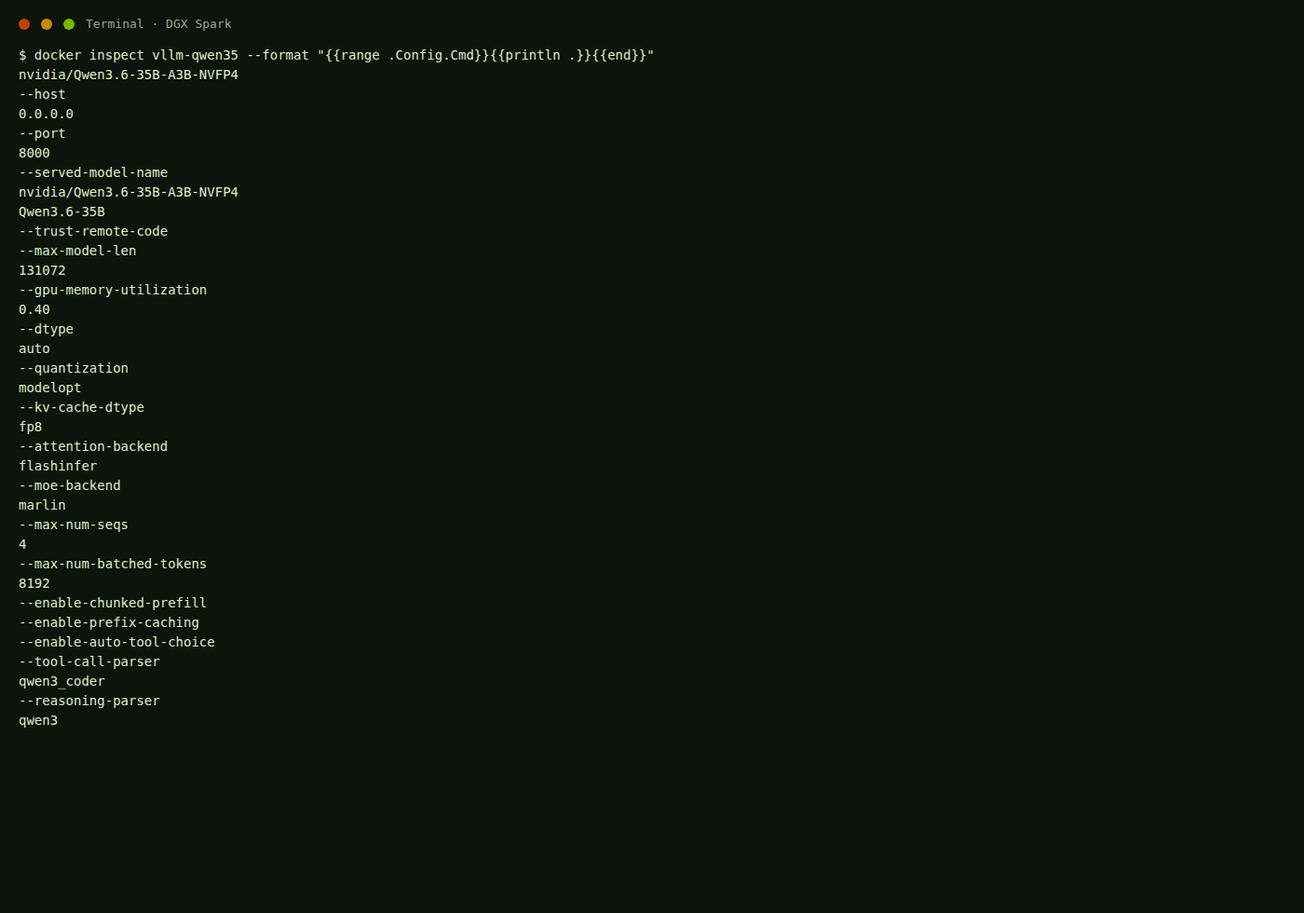
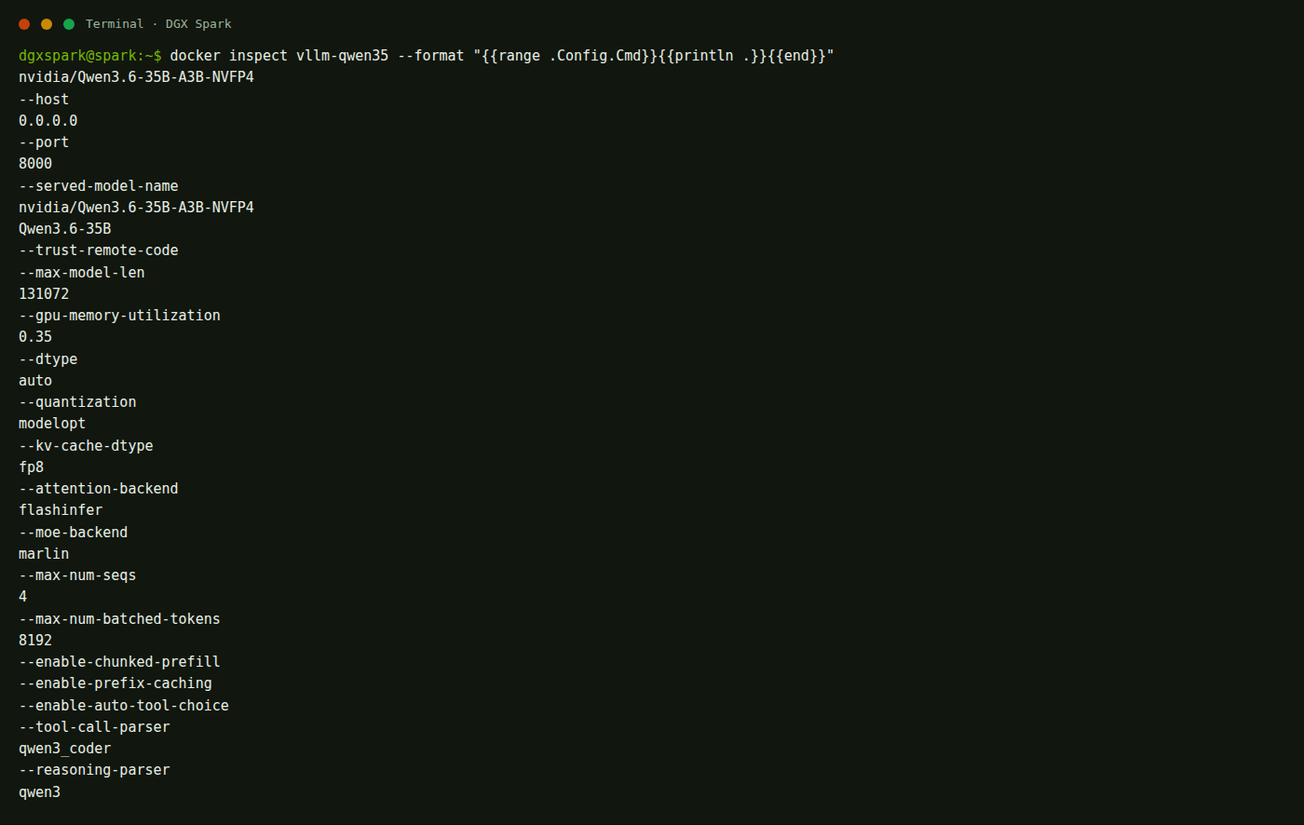
Lower studio RAM recipes: Qwen35 35%, Qwen27 50%, Nemotron 60% at 500k
Match the live docker-compose reservation cuts and recapture
inspect/free screenshots from Qwen 35B after the 0.35 restart.

Changed region(s): [[0.0, 0.0, 0.645, 0.9752]]

diff --git a/models.html b/models.html
@@ -52,21 +52,21 @@
                 <tr>
                   <td>Nemotron-3.5-Lightning</td>
                   <td>nvidia/NVIDIA-Nemotron-3.5-Lightning-30B-A3B-NVFP4</td>
-                  <td>21 GB + DSpark 1.3 GB</td>
-                  <td>แชท เขียนโค้ด งานเอเจนต์ บริบทยาว</td>
+                  <td>21 GB + DSpark 1.3 GB · จอง 60% · บริบท 500k</td>
+                  <td>แชท เขียนโค้ด งานเอเจนต์ บริบทยาวถึง 500k</td>
                   <td><code>start-nemotron</code></td>
                 </tr>
                 <tr>
                   <td>Qwen3.6-27B</td>
                   <td>nvidia/Qwen3.6-27B-NVFP4</td>
-                  <td>21 GB</td>
+                  <td>21 GB · จอง 50%</td>
                   <td>แชททั่วไป สูตรนี้เปิดแบบข้อความอย่างเดียว</td>
                   <td><code>start-qwen27</code></td>
                 </tr>
                 <tr>
                   <td>nvidia/Qwen3.6-35B-A3B-NVFP4 และ Qwen3.6-35B</td>
                   <td>nvidia/Qwen3.6-35B-A3B-NVFP4</td>
-                  <td>22 GB ไฟล์ · จอง RAM ประมาณ 40%</td>
+                  <td>22 GB ไฟล์ · จอง RAM 35%</td>
                   <td>งานหนักขึ้น แบบ MoE ใช้กับ Hermes ได้</td>
                   <td><code>start-qwen35</code></td>
                 </tr>
@@ -87,9 +87,9 @@
               <thead><tr><th>คำสั่ง</th><th>ผลลัพธ์</th><th>ใช้เวลานานไหม</th></tr></thead>
               <tbody>
                 <tr><td><code>llm-status</code></td><td>บอกว่าเว็บกับโมเดลเปิดอยู่หรือไม่</td><td>ทันที</td></tr>
-                <tr><td><code>start-nemotron</code></td><td>ปิดโมเดลอื่น แล้วเปิด Nemotron</td><td>2–4 นาที</td></tr>
-                <tr><td><code>start-qwen27</code></td><td>ปิดโมเดลอื่น แล้วเปิด Qwen 27B</td><td>2–4 นาที</td></tr>
-                <tr><td><code>start-qwen35</code></td><td>ปิดโมเดลอื่น แล้วเปิด Qwen 35B ชื่อเต็มที่ Hermes ใช้ จอง RAM 40%</td><td>2–6 นาที</td></tr>
+                <tr><td><code>start-nemotron</code></td><td>ปิดโมเดลอื่น แล้วเปิด Nemotron จอง 60% บริบท 500k</td><td>2–4 นาที</td></tr>
+                <tr><td><code>start-qwen27</code></td><td>ปิดโมเดลอื่น แล้วเปิด Qwen 27B จอง 50%</td><td>2–4 นาที</td></tr>
+                <tr><td><code>start-qwen35</code></td><td>ปิดโมเดลอื่น แล้วเปิด Qwen 35B ชื่อเต็มที่ Hermes ใช้ จอง RAM 35%</td><td>2–6 นาที</td></tr>
                 <tr><td><code>stop-model</code></td><td>ปิดโมเดล คืน RAM ประมาณ 100 GB</td><td>ไม่กี่วินาที</td></tr>
                 <tr><td><code>start-webui</code></td><td>เปิดหน้าเว็บ :18473</td><td>ไม่กี่วินาที</td></tr>
                 <tr><td><code>stop-webui</code></td><td>ปิดหน้าเว็บ ประวัติแชทยังอยู่</td><td>ทันที</td></tr>
@@ -188,7 +188,7 @@
             <article class="viz-card">
               <span class="k">เรื่องที่ 3</span>
               <h3>จอง RAM</h3>
-              <p>สูตรเก่ากัน 82% สูตรใหม่กัน 40% ไฟล์โมเดลไม่ได้โต</p>
+              <p>สูตรเก่ากัน 82% สูตรปัจจุบันของ Qwen 35B กัน 35% ไฟล์โมเดลไม่ได้โต</p>
             </article>
           </div>
           <div class="callout warn">สิ่งที่ <em>ไม่ได้</em> พัง: ไฟล์โมเดลบนดิสก์ไม่หาย Hermes แดชบอร์ดไม่พัง Open WebUI ยังคุยได้ด้วยชื่อสั้น ปัญหาอยู่ที่ <strong>ชื่อที่เรียก</strong> กับ <strong>สูตรจอง RAM</strong></div>
@@ -368,8 +368,8 @@ Qwen3.6-35B</div>
           <p>ตรวจของจริงจากคอนเทนเนอร์ที่กำลังรัน</p>
           <div class="prewrap"><button class="copy" data-copy>คัดลอก</button><pre>docker inspect vllm-qwen35 --format '{{range .Config.Cmd}}{{println .}}{{end}}'</pre></div>
           <figure class="shot">
-            <img src="assets/shots/term-inspect-cmd.png" alt="docker inspect แสดง served-model-name สองชื่อและ utilization 0.40">
-            <figcaption>ผลจริง: ต้องเห็น <code>--served-model-name</code> ตามด้วยชื่อเต็มแล้วชื่อสั้น และ <code>--gpu-memory-utilization</code> เป็น <code>0.40</code></figcaption>
+            <img src="assets/shots/term-inspect-cmd.png" alt="docker inspect แสดง served-model-name สองชื่อและ utilization">
+            <figcaption>ผลจริง: ต้องเห็น <code>--served-model-name</code> ตามด้วยชื่อเต็มแล้วชื่อสั้น และ <code>--gpu-memory-utilization</code> เป็น <code>0.35</code></figcaption>
           </figure>
 
           <h3>ชั้น 3 Hermes ยิงชื่อเต็มเท่านั้น</h3>
@@ -424,8 +424,8 @@ Qwen3.6-35B</div>
             <div class="legend">available เหลือไม่กี่ GB เครื่องแน่น ทั้งที่ไฟล์โมเดลยัง 22 GB</div>
           </div>
           <div class="bar">
-            <div class="label"><span>สูตรตอนนี้ 0.40</span><span>กันไว้ ~48 / 121 GiB</span></div>
-            <div class="track"><div class="fill" style="width:40%"></div></div>
+            <div class="label"><span>สูตรตอนนี้ 0.35</span><span>กันไว้ ~42 / 121 GiB</span></div>
+            <div class="track"><div class="fill" style="width:35%"></div></div>
             <div class="legend">เหลือที่ให้เบราว์เซอร์ Open WebUI Hermes และระบบ</div>
           </div>
 
@@ -436,14 +436,14 @@ Qwen3.6-35B</div>
           <p>ค่า <code>--gpu-memory-utilization</code> บอก vLLM ว่าให้กันสัดส่วนเท่าไรของหน่วยความจำที่มองเห็น ไว้ให้น้ำหนักโมเดลบวก KV cache</p>
           <div class="eq">ของเครื่องนี้ประมาณ 121 GiB
 สูตรเก่า 0.82 × 121 ≈ 99 GiB ถูกกันไว้ตั้งแต่ยังไม่ได้คุย
-สูตร Hermes / สูตรใหม่ 0.40 × 121 ≈ 48 GiB</div>
+สูตร Qwen 35B ตอนนี้ 0.35 × 121 ≈ 42 GiB</div>
           <div class="table-wrap">
             <table>
               <thead><tr><th>สูตร</th><th>utilization</th><th>กันไว้ประมาณ</th><th>ผลที่ตาเห็น</th></tr></thead>
               <tbody>
                 <tr><td><code>start-qwen35</code> แบบเก่า</td><td>0.82</td><td>~99–100 GiB จาก 121</td><td>available เหลือไม่กี่ GB เครื่องแน่น</td></tr>
-                <tr><td><code>qwen35-start</code></td><td>0.40</td><td>~48 GiB</td><td>เหลือ RAM ใช้เบราว์เซอร์และโปรแกรมอื่น</td></tr>
-                <tr><td><code>start-qwen35</code> ตอนนี้</td><td>0.40</td><td>~48 GiB</td><td>เท่าสูตรที่ Hermes ใช้ได้</td></tr>
+                <tr><td><code>qwen35-start</code></td><td>0.40</td><td>~48 GiB</td><td>สูตรเก่าของ Hermes ตอนจัดชื่อ</td></tr>
+                <tr><td><code>start-qwen35</code> ตอนนี้</td><td>0.35</td><td>~42 GiB</td><td>ลดจาก 0.40 เพราะบริบทในสูตรนี้ 128k ไม่ใช่ 256k</td></tr>
               </tbody>
             </table>
           </div>
@@ -460,16 +460,16 @@ Qwen3.6-35B</div>
               <p><code>free</code> คือที่ว่างเปล่าจริง ๆ ส่วนที่ระบบเก็บแคชไฟล์จะโชว์ใน <code>buff/cache</code> และยังคืนให้โปรแกรมได้ คอลัมน์ที่บอกว่า “ยังเปิดอย่างอื่นได้อีกไหม” คือ <code>available</code></p>
             </li>
             <li>
-              <div class="title">ตัวเลขปกติหลังเปิด Qwen 35B สูตร 40%</div>
-              <p>วันที่ 17 สิงหาคม 2026 เครื่องนี้ใช้ไป 61 GiB เหลือ available 59 GiB มีแคชอีกประมาณ 30 GiB</p>
+              <div class="title">ตัวเลขปกติหลังเปิด Qwen 35B สูตร 35%</div>
+              <p>สูตร 35% กันไว้ประมาณ 42 GiB ระบบทั้งก้อนมักเหลือ available หลายสิบ GiB ถ้าเหลือไม่กี่ GB ให้สงสัยว่ายังใช้สูตร 0.82</p>
             </li>
           </ol>
           <figure class="shot">
             <img src="assets/shots/term-free-now.png" alt="free -h หลังเปิด Qwen 35B สูตร 40 เปอร์เซ็นต์">
-            <figcaption>ผลจริงตอน <code>vllm-qwen35</code> เปิดอยู่: used 61Gi available 59Gi ถ้า available เหลือไม่กี่ GB ทั้งที่เปิดแค่ Qwen 35B ให้สงสัยว่ายังใช้สูตร 0.82</figcaption>
+            <figcaption>ผลจริงหลังลดเป็น 0.35: used 59Gi available 62Gi ถ้า available เหลือไม่กี่ GB ทั้งที่เปิดแค่ Qwen 35B ให้สงสัยว่ายังใช้สูตร 0.82</figcaption>
           </figure>
-          <p>เลข 61 GiB ไม่ได้แปลว่าโมเดลกินคนเดียว ในนั้นมี Open WebUI, ComfyUI, กรง Hermes, ระบบ และแคชด้วย ส่วนที่ vLLM กันไว้ตามสูตร 40% ประมาณ 48 GiB</p>
-          <div class="callout tip">อยากคืน RAM ให้รัน <code>stop-model</code> อย่าไปปิดแท็บเบราว์เซอร์อย่างเดียว แท็บไม่ใช่ตัวที่จอง 48–100 GB</div>
+          <p>เลข used ไม่ได้แปลว่าโมเดลกินคนเดียว ในนั้นมี Open WebUI, ComfyUI, กรง Hermes, ระบบ และแคชด้วย ส่วนที่ vLLM กันไว้ตามสูตร 35% ประมาณ 42 GiB</p>
+          <div class="callout tip">อยากคืน RAM ให้รัน <code>stop-model</code> อย่าไปปิดแท็บเบราว์เซอร์อย่างเดียว แท็บไม่ใช่ตัวที่จอง 42–100 GB</div>
         </section>
 
         <section id="fixed">
@@ -480,7 +480,7 @@ Qwen3.6-35B</div>
               <thead><tr><th>จุด</th><th>ก่อนแก้</th><th>หลังแก้</th></tr></thead>
               <tbody>
                 <tr><td>ชื่อที่เสิร์ฟ</td><td>แค่ <code>Qwen3.6-35B</code></td><td>ทั้ง <code>nvidia/Qwen3.6-35B-A3B-NVFP4</code> และ <code>Qwen3.6-35B</code></td></tr>
-                <tr><td>จอง RAM</td><td>0.82 ≈ 100 GB</td><td>0.40 ≈ 48 GB</td></tr>
+                <tr><td>จอง RAM</td><td>0.82 ≈ 100 GB</td><td>0.35 ≈ 42 GB (จาก 0.40 รอบแก้ Hermes)</td></tr>
                 <tr><td>ปิดสูตรเก่า</td><td>ไม่ปิด <code>nemoclaw-vllm</code></td><td>ปิดทั้ง <code>nemoclaw-vllm</code> และ <code>qwen36-27b</code></td></tr>
                 <tr><td>รอ Ready</td><td>บางรอบสั้นเกิน รอบคอมไพล์เลยดูเหมือนค้าง</td><td>รอได้ถึง 720 วินาที</td></tr>
                 <tr><td>Hermes</td><td>404 ชื่อไม่ตรง</td><td>Inference healthy</td></tr>
@@ -491,7 +491,7 @@ Qwen3.6-35B</div>
           <ul>
             <li>คอนเทนเนอร์โมเดล: <code>vllm-qwen35</code> Up</li>
             <li>API: <code>nvidia/Qwen3.6-35B-A3B-NVFP4</code> และ <code>Qwen3.6-35B</code></li>
-            <li>RAM: used ≈ 61 GiB · available ≈ 59 GiB</li>
+            <li>RAM หลังลดสูตร: used ≈ 59 GiB · available ≈ 62 GiB (Qwen 35B ที่ 0.35)</li>
             <li>Hermes: Inference (vllm backend) healthy</li>
             <li><code>nemoclaw-vllm</code> ไม่ได้รันอยู่</li>
           </ul>
@@ -583,12 +583,12 @@ docker ps --format 'table {{.Names}}\t{{.Status}}\t{{.Ports}}'</pre></div>
             <li>
               <div class="title">ยืนยันสูตรในคอนเทนเนอร์</div>
               <div class="prewrap"><button class="copy" data-copy>คัดลอก</button><pre>docker inspect vllm-qwen35 --format '{{range .Config.Cmd}}{{println .}}{{end}}'</pre></div>
-              <p>ต้องเห็น <code>--gpu-memory-utilization</code> เป็น <code>0.40</code> และ <code>--served-model-name</code> ตามด้วยชื่อเต็ม</p>
+              <p>ต้องเห็น <code>--gpu-memory-utilization</code> เป็น <code>0.35</code> และ <code>--served-model-name</code> ตามด้วยชื่อเต็ม</p>
             </li>
             <li>
               <div class="title">ดู RAM</div>
               <div class="prewrap"><button class="copy" data-copy>คัดลอก</button><pre>free -h</pre></div>
-              <p>สูตร 40% ทั้งระบบมักใช้ราว 60 GiB และยังเหลือ available หลายสิบ GiB ถ้า available เหลือไม่กี่ GB ทั้งที่เพิ่งเปิด Qwen 35B อย่างเดียว ให้สงสัยว่ายังใช้สูตร 0.82</p>
+              <p>สูตร 35% ทั้งระบบมักเหลือ available หลายสิบ GiB ถ้า available เหลือไม่กี่ GB ทั้งที่เพิ่งเปิด Qwen 35B อย่างเดียว ให้สงสัยว่ายังใช้สูตร 0.82</p>
             </li>
             <li>
               <div class="title">ถาม Hermes ว่าเห็นโมเดลหรือยัง</div>
@@ -664,9 +664,10 @@ docker ps --format 'table {{.Names}}\t{{.Status}}\t{{.Ports}}'</pre></div>
           </div>
           <ul>
             <li>น้ำหนักโมเดลบนดิสก์ประมาณ 22 GB</li>
-            <li>Qwen 35B สูตรปัจจุบันกันรวมประมาณ 40% ของเครื่อง (~48 GiB) เหลือที่ให้ระบบ เบราว์เซอร์ Open WebUI และ Hermes</li>
+            <li>Qwen 35B สูตรปัจจุบันกันรวมประมาณ 35% ของเครื่อง (~42 GiB)</li>
+            <li>Qwen 27B กัน 50% (~61 GiB) ตามสูตรทางการบน Spark ไม่ใช่ 82%</li>
+            <li>Nemotron กัน 60% (~73 GiB) ที่หน้าต่าง 500k ไม่ใช่ 1M ของทางการ</li>
             <li>ถ้าเผลอตั้ง utilization เป็น 0.82 จะกันเกือบ 100 GiB ทั้งที่น้ำหนักโมเดลเท่าเดิม นี่คืออาการ “RAM สูงผิดปกติ” ของสูตรเก่า</li>
-            <li>Nemotron และ Qwen 27B บนเครื่องนี้ยังใช้ 0.82 เพราะสูตรนั้นออกแบบมาให้บริบทยาว เปิดได้ทีละตัวเหมือนเดิม</li>
           </ul>
           <p>อยากคืน RAM ให้รัน <code>stop-model</code> ไม่ใช่ไปปิดแท็บเบราว์เซอร์อย่างเดียว ปิดแท็บแล้วโมเดลยังจองที่อยู่</p>
         </section>

diff --git a/terms.html b/terms.html
@@ -83,7 +83,7 @@
             <div class="term"><dt>RAM ที่ใช้ <em>used</em></dt><dd>คอลัมน์ใน free -h ที่ถูกจองแล้ว รวมแคชของระบบด้วย อย่าดูแค่ช่องนี้</dd></div>
             <div class="term"><dt>RAM ที่ใช้ได้ <em>available</em></dt><dd>ตัวเลขที่บอกว่าเปิดโปรแกรมอื่นได้อีกเท่าไร รวมส่วนที่ระบบยอมคืนจากแคช</dd><p class="here">อ่านคอลัมน์นี้หลังเปิดโมเดล</p></div>
             <div class="term"><dt>บัฟเฟอร์และแคช <em>buff/cache</em></dt><dd>ลินุกซ์เก็บไฟล์ที่เพิ่งอ่านไว้ในแรม ดูเหมือนเต็ม แต่คืนให้โปรแกรมได้เมื่อต้องการ</dd></div>
-            <div class="term"><dt>การจองล่วงหน้า <em>reservation / gpu-memory-utilization</em></dt><dd>vLLM กันสัดส่วนหน่วยความจำตั้งแต่สตาร์ท สำหรับน้ำหนักบวก KV cache ไม่ได้รอให้คุยยาวแล้วค่อยขอ</dd><p class="here">Nemotron/Qwen27 ใช้ 0.82 Qwen35 ใช้ 0.40</p></div>
+            <div class="term"><dt>การจองล่วงหน้า <em>reservation / gpu-memory-utilization</em></dt><dd>vLLM กันสัดส่วนหน่วยความจำตั้งแต่สตาร์ท สำหรับน้ำหนักบวก KV cache ไม่ได้รอให้คุยยาวแล้วค่อยขอ</dd><p class="here">Qwen35 ใช้ 0.35 · Qwen27 ใช้ 0.50 · Nemotron ใช้ 0.60 ที่บริบท 500k</p></div>
             <div class="term"><dt>GiB / GB</dt><dd>GiB คูณ 1024, GB คูณ 1000 เครื่องนี้โชว์ GiB ใน free -h ประมาณ 121</dd></div>
             <div class="term"><dt>CUDA</dt><dd>ชุดคำสั่งให้โปรแกรมใช้จีพียู NVIDIA ได้ ถ้า CUDA ไม่ขึ้น โมเดลจะช้าหรือไม่ขึ้นเลย</dd></div>
             <div class="term"><dt>Tensor Core</dt><dd>วงจรในจีพียู NVIDIA สำหรับคูณเมทริกซ์ของโมเดล AI ควอนไทซ์อย่าง NVFP4 ออกแบบมาใช้ส่วนนี้</dd></div>
@@ -175,7 +175,7 @@
             <div class="term"><dt>พรีฟิล <em>prefill</em></dt><dd>ช่วงอ่านพรอมต์ทั้งก้อนก่อนเริ่มพิมพ์ตอบ กินเวลาตอนข้อความยาว</dd></div>
             <div class="term"><dt>ดีโค้ด <em>decode</em></dt><dd>ช่วงพิมพ์คำตอบทีละโทเค็น</dd></div>
             <div class="term"><dt>chunked prefill</dt><dd>หั่นการอ่านพรอมต์ยาวเป็นท่อน เพื่อไม่ชนหน่วยความจำ</dd></div>
-            <div class="term"><dt>max-model-len</dt><dd>ความยาวบริบทยาวสุดที่อนุญาต ยิ่งยาวยิ่งจอง KV มาก</dd><p class="here">Qwen35 สูตรสตูดิโอ 131072 โทเค็น</p></div>
+            <div class="term"><dt>max-model-len</dt><dd>ความยาวบริบทยาวสุดที่อนุญาต ยิ่งยาวยิ่งจอง KV มาก</dd><p class="here">Qwen35 = 131072 · Qwen27 = 65536 · Nemotron = 500000</p></div>
             <div class="term"><dt>max-num-seqs</dt><dd>จำนวนบทสนทนาพร้อมกันที่เอนจินรับได้</dd></div>
             <div class="term"><dt>batch / max-num-batched-tokens</dt><dd>รวมงานหลายคำขอในรอบคำนวณเดียวกัน</dd></div>
             <div class="term"><dt>อุณหภูมิ <em>temperature</em></dt><dd>สุ่มคำตอบ ต่ำ = ตรง สูง = หลากหลาย</dd></div>

diff --git a/start.html b/start.html
@@ -89,9 +89,9 @@
               </thead>
               <tbody>
                 <tr><td>หน้าเว็บแชท</td><td>Open WebUI</td><td><a href="http://127.0.0.1:18473">:18473</a></td><td><code>start-webui</code></td><td><code>stop-webui</code></td></tr>
-                <tr><td>โมเดล Nemotron</td><td>vLLM</td><td><a href="http://127.0.0.1:8000/v1/models">:8000</a></td><td><code>start-nemotron</code></td><td><code>stop-model</code></td></tr>
-                <tr><td>โมเดล Qwen 27B</td><td>vLLM</td><td>:8000 ช่องเดียวกัน</td><td><code>start-qwen27</code></td><td><code>stop-model</code></td></tr>
-                <tr><td>โมเดล Qwen 35B</td><td>vLLM · ชื่อเต็มที่ Hermes ใช้ · RAM 40%</td><td>:8000 ช่องเดียวกัน</td><td><code>start-qwen35</code></td><td><code>stop-model</code></td></tr>
+                <tr><td>โมเดล Nemotron</td><td>vLLM · จอง 60% · บริบท 500k</td><td><a href="http://127.0.0.1:8000/v1/models">:8000</a></td><td><code>start-nemotron</code></td><td><code>stop-model</code></td></tr>
+                <tr><td>โมเดล Qwen 27B</td><td>vLLM · จอง 50%</td><td>:8000 ช่องเดียวกัน</td><td><code>start-qwen27</code></td><td><code>stop-model</code></td></tr>
+                <tr><td>โมเดล Qwen 35B</td><td>vLLM · ชื่อเต็มที่ Hermes ใช้ · จอง 35%</td><td>:8000 ช่องเดียวกัน</td><td><code>start-qwen35</code></td><td><code>stop-model</code></td></tr>
                 <tr><td>สร้างภาพ</td><td>ComfyUI</td><td><a href="http://127.0.0.1:8188">:8188</a></td><td><code>docker start comfyui-dgx</code></td><td><code>docker stop comfyui-dgx</code></td></tr>
                 <tr><td>เอเจนต์ Hermes</td><td>NemoClaw sandbox</td><td><a href="http://127.0.0.1:18789">:18789</a></td><td><code>nemoclaw hermes start</code></td><td><code>nemoclaw hermes stop</code></td></tr>
                 <tr><td>เขียนโค้ดในเทอร์มินัล</td><td>Claude Code → vLLM</td><td>:8000 คนละโปรแกรมกับแชท</td><td><code>claude-local</code></td><td>ออกจากเซสชัน แล้ว <code>stop-model</code> ถ้าเลิกใช้โมเดล</td></tr>

diff --git a/system.html b/system.html
@@ -62,13 +62,13 @@ docker logs --tail 80 vllm-qwen35</pre></div>
             <li><div class="title">อย่าไปลบไฟล์โมเดลเพื่อเคลียร์ RAM</div><p>ไฟล์โมเดลอยู่บนดิสก์ การปิดโปรเซสต่างหากที่คืน RAM</p></li>
           </ol>
           <div class="bar">
-            <div class="label"><span>ตอน Qwen 35B สูตร 40%</span><span>used ~61 · available ~59</span></div>
-            <div class="track"><div class="fill" style="width:50%"></div></div>
-            <div class="legend">ดู available ถ้าเหลือหลายสิบ GB แปลว่าสูตร 40% ทำงาน</div>
+            <div class="label"><span>ตอน Qwen 35B สูตร 35%</span><span>used 59 · available 62</span></div>
+            <div class="track"><div class="fill" style="width:35%"></div></div>
+            <div class="legend">ดู available ถ้าเหลือหลายสิบ GB แปลว่าสูตร 35% ทำงาน</div>
           </div>
           <figure class="shot">
             <img src="assets/shots/term-free-now.png" alt="free -h ตอน Qwen 35B">
-            <figcaption>ผลจริงตอน Qwen 35B สูตร 40%: used 61Gi available 59Gi</figcaption>
+            <figcaption>ผลจริงตอน Qwen 35B สูตร 35%: used 59Gi available 62Gi</figcaption>
           </figure>
           <figure class="shot">
             <img src="assets/shots/term-free.png" alt="free -h ตอนโมเดลกินสูง">

diff --git a/index.html b/index.html
@@ -95,7 +95,7 @@
         </div>
 
         <div class="callout warn" style="margin-top:1.4rem">
-          <strong>กฎเหล็กของเครื่องนี้:</strong> โมเดลแชทใหญ่เปิดได้ทีละตัว Nemotron / Qwen 27B จองราว 82% ส่วน Qwen 35B สูตรปัจจุบันจอง 40% แต่ยังแย่งพอร์ต 8000 อยู่ดี เปิด Nemotron ค้างแล้วไปสตาร์ท Qwen ทับไม่ได้ · ใช้คำสั่งที่ขึ้นต้น <code>start-</code> อย่างเดียว อย่าสลับกับ <code>qwen35-start</code>
+          <strong>กฎเหล็กของเครื่องนี้:</strong> โมเดลแชทใหญ่เปิดได้ทีละตัว Qwen 35B จอง 35% · Qwen 27B จอง 50% · Nemotron จอง 60% ที่หน้าต่าง 500k ยังแย่งพอร์ต 8000 อยู่ดี เปิดค้างแล้วไปสตาร์ทตัวอื่นทับไม่ได้ · ใช้คำสั่งที่ขึ้นต้น <code>start-</code> อย่างเดียว อย่าสลับกับ <code>qwen35-start</code>
         </div>
         <footer>อัปเดต 18 สิงหาคม 2026 · ภาพจาก Open WebUI 0.11.0, vLLM 0.27.1, Claude Code 2.1.233, ComfyUI 0.33.1</footer>
       </main>

diff --git a/assets/app.js b/assets/app.js
@@ -107,7 +107,7 @@ const REMEMBER = {
   path: "จำง่าย: พิมพ์ start- ก่อน แล้วค่อยกด Tab",
   inside: "จำง่าย: start- ปิดของเก่าทั้งชุด · qwen35-start ปลุกกล่องเก่า",
   names: "จำง่าย: ไฟล์ ≠ ชื่อที่เสิร์ฟ ≠ ชื่อที่ Hermes ยิง",
-  ramwhy: "จำง่าย: ดู available ไม่ใช่ used · 0.40 ไม่ใช่ 0.82",
+  ramwhy: "จำง่าย: ดู available ไม่ใช่ used · Qwen35=0.35 Qwen27=0.50 Nemotron=0.60",
   fixed: "จำง่าย: วันนี้ใช้ start-qwen35 อันเดียว ทั้งแชทและ Hermes",
   qwen35: "จำง่าย: พิมพ์ start-qwen35 แล้วรอ Ready จนเห็นชื่อเต็ม",
   verify35: "จำง่าย: API มีชื่อเต็ม + Hermes healthy + แชทตอบได้",

diff --git a/comfy.html b/comfy.html
@@ -605,8 +605,8 @@ xdg-open ~/ai/comfyui/output</pre></div>
           <h2>RAM กับโมเดลแชท</h2>
           <p>เครื่องนี้หน่วยความจำก้อนเดียว ทั้งแชท ทั้งภาพ ทั้งวิดีโอ</p>
           <div class="bar">
-            <div class="label"><span>Qwen 35B เปิดอยู่</span><span>กันไว้ราว 40%</span></div>
-            <div class="track"><div class="fill" style="width:40%"></div></div>
+            <div class="label"><span>Qwen 35B เปิดอยู่</span><span>กันไว้ราว 35%</span></div>
+            <div class="track"><div class="fill" style="width:35%"></div></div>
             <div class="legend">เว็บ Comfy ยังเปิดได้ แต่ห้ามกด Run วิดีโอทับ</div>
           </div>
           <ol class="steps">

diff --git a/hermes.html b/hermes.html
@@ -364,7 +364,7 @@
               <p>อย่าตัดสินจากห้องเก่าที่ error ค้างไว้</p>
             </li>
           </ol>
-          <p>ถ้า RAM ดูสูงผิดปกติหลังเปิด Qwen 35B ให้อ่าน <a href="models.html#ramwhy">ทำไม RAM สูง</a> สูตรปัจจุบันต้องกันประมาณ 40% ไม่ใช่ 82%</p>
+          <p>ถ้า RAM ดูสูงผิดปกติหลังเปิด Qwen 35B ให้อ่าน <a href="models.html#ramwhy">ทำไม RAM สูง</a> สูตรปัจจุบันต้องกันประมาณ 35% ไม่ใช่ 82%</p>
 
           <h3>เข้า http://127.0.0.1:18789 ไม่ได้</h3>
           <ol class="steps">
